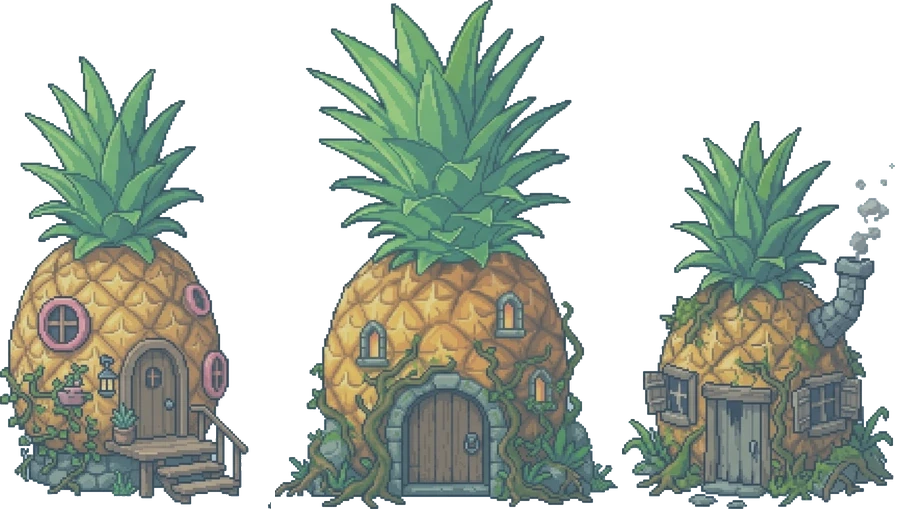
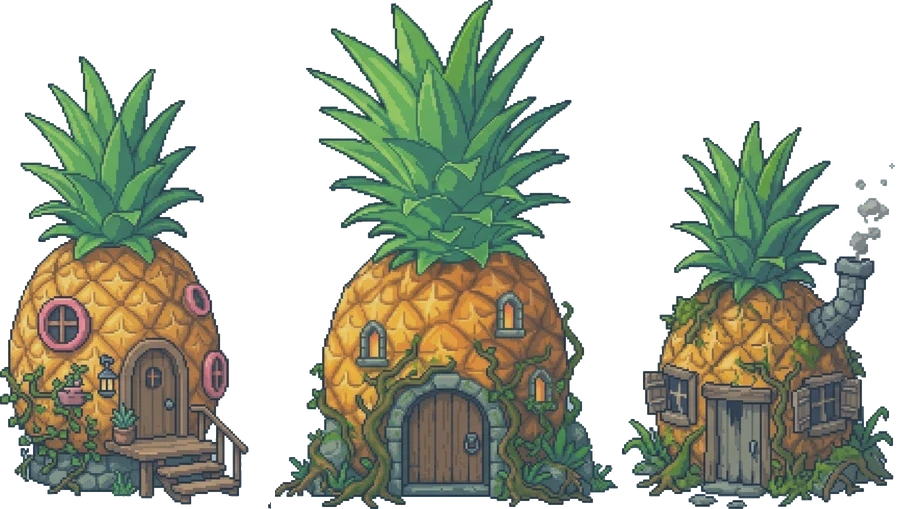
Gioca aspetta le immagini e casette meno velate
Il pulsante Gioca resta su "Caricamento…" finché tutte le immagini sono
arrivate: con la rete lenta la partita partiva senza caselle, nemici e
Matteo. Le casette hanno il velo al 20%, meno del fondale.

diff --git a/game.js b/game.js
@@ -2,6 +2,8 @@
 addEventListener("error",e=>{const t=document.getElementById("erroreT");if(t&&e.message&&document.getElementById("gioco")){t.hidden=false;t.textContent="Si è verificato un errore: "+e.message+". Ricarica la pagina.";}});
 (function(){
 const $=id=>document.getElementById(id);
+/* ogni immagine del gioco finisce in IMMAGINI: Gioca aspetta che siano tutte caricate, se no con la rete lenta all'inizio mancano caselle, nemici e Matteo */
+const IMMAGINI=[],Image=function(){const i=new window.Image();IMMAGINI.push(i);return i;};
 const clamp=(v,a,b)=>v<a?a:v>b?b:v, lerp=(a,b,t)=>a+(b-a)*t, rnd=(a,b)=>a+Math.random()*(b-a);
 const riduci=matchMedia('(prefers-reduced-motion: reduce)').matches;
 
@@ -560,7 +562,7 @@ function strato(c,f,par,y,h,dritto){const b=2,sw=f.width-2*b,w=h*sw/f.height,pe=
  for(let i=0,x=-o;x<V.W;i++,x+=w){x=Math.floor(x);if(i%2&&!dritto){c.save();c.translate(x+w+3,y);c.scale(-1,1);c.drawImage(f,b,0,sw,f.height,0,0,w+3,h);c.restore();}else c.drawImage(f,b,0,sw,f.height,x,y,w+3,h);}}
 /* la sala del trono di Ananassone, disegnata dall'utente: ferma e grande quanto lo schermo, appoggiata in basso */
 const SALA=new Image();SALA.src='assets/sala_ananas.webp';
-/* le tre casette dell'utente (paesaggio/casette_originale.jpg, scontornate, a metà grandezza e velate come il fondale): solo da guardare, attaccate al terreno ma dietro al gioco.
+/* le tre casette dell'utente (paesaggio/casette_originale.jpg, scontornate, a metà grandezza e velate appena, molto meno del fondale): solo da guardare, attaccate al terreno ma dietro al gioco.
    CASE_R rettangoli nel foglio, CASE_B riga della base (sotto ci sono solo radici e ombra), alte 8 caselle quella in mezzo */
 const CASETTE=new Image();CASETTE.src='assets/casette.webp';const CASE_R=[[0,56,271,453],[275,0,343,509],[622,121,273,388]],CASE_B=[435,498,375],CASA_K=8/509;
 const CASTELLO=new Image();CASTELLO.src='assets/castello.webp'; /* scontornato da paesaggio/castello_originale.png; la porta è a 252 px dal bordo sinistro e la sua soglia a 538 px dall'alto: sotto ci sono solo le radici */
@@ -917,6 +919,8 @@ function disegnaAmici(){const a=$('listaAmici');a.textContent='';
  $('saldo').textContent=S.gettoni;$('togliAmico').hidden=S.sel===0;$('togliFoto').hidden=!f.foto;$('togliFoto').textContent='Togli la foto di '+f.nome;$('fotoTesto').textContent=(f.foto?'Cambia la foto di ':'Metti la foto di ')+f.nome;
 }
 async function bloccaOrizzontale(){try{if(!document.fullscreenElement&&document.documentElement.requestFullscreen)await document.documentElement.requestFullscreen();await screen.orientation.lock('landscape');}catch(e){}}
+/* finché le immagini non sono arrivate Gioca è spento e dice Caricamento…; dopo 20 s si accende comunque */
+(function attendi(t0){const b=$('bGioca'),n=IMMAGINI.filter(i=>!i.complete).length;if(n&&performance.now()-t0<20000){b.disabled=true;b.classList.add('carica');b.textContent='Caricamento…';setTimeout(()=>attendi(t0),150);}else{b.disabled=false;b.classList.remove('carica');b.textContent='Gioca';}})(performance.now());
 $('bGioca').onclick=()=>{audioOn();chiediSensori();bloccaOrizzontale();if((S.guidaVista|0)>=3)iniziaRun();else apriGuida(iniziaRun);};
 $('bGuida').onclick=()=>{audioOn();apriGuida(null);};
 $('bAmici').onclick=()=>{audioOn();disegnaAmici();mostra('sAmici');};

diff --git a/style.css b/style.css
@@ -34,6 +34,7 @@ body{font-family:var(--testo);font-size:16px}
 @keyframes logoOndeggia{50%{transform:translateY(-1.1vmin) rotate(-.6deg)}}
 .mPulsanti{display:grid;grid-template-columns:minmax(0,1fr) minmax(0,1.25fr) minmax(0,1fr);align-items:center;gap:clamp(12px,2.4vmax,24px);width:min(100%,780px)}
 .mBtn{--c1:var(--azzurro);--c2:var(--azzurro2);min-height:clamp(46px,14vmin,60px);padding:6px 12px;font:400 clamp(15px,2.3vmax,21px)/1.05 var(--display);color:var(--notte);text-wrap:balance;background:linear-gradient(var(--c1) 50%,var(--c2) 50%);border:3px solid var(--notte);border-radius:16px;box-shadow:0 5px 0 var(--notte),0 0 0 6px #fff,0 11px 0 0 #fff;cursor:pointer;touch-action:manipulation}
+.mBtn.carica{opacity:.75;font-size:clamp(17px,2.6vmax,24px)}
 .mBtn:active{transform:translateY(4px);box-shadow:0 1px 0 var(--notte),0 0 0 6px #fff,0 7px 0 0 #fff}
 .mGioca{--c1:var(--scintilla);--c2:var(--scintilla2);min-height:clamp(58px,19vmin,78px);font-size:clamp(25px,4vmax,36px);line-height:1;letter-spacing:.02em}
 .mPiede{display:flex;align-items:center;justify-content:center;gap:10px;min-height:0;margin-top:1.6vmin;max-width:100%;font-size:13px;line-height:1.2;font-weight:700;color:#fff}

diff --git a/index.html b/index.html
@@ -20,7 +20,7 @@
 <link rel="preconnect" href="https://fonts.googleapis.com">
 <link rel="preconnect" href="https://fonts.gstatic.com" crossorigin>
 <link rel="stylesheet" href="https://fonts.googleapis.com/css2?family=Bowlby+One&family=Baloo+2:wght@500;700;800&display=swap">
-<link rel="stylesheet" href="style.css?v=90">
+<link rel="stylesheet" href="style.css?v=93">
 
 <div id="schermo">
 <canvas id="d2" aria-label="Gioco Cicciobomba"></canvas>
@@ -102,6 +102,6 @@
 <div id="erroreT" hidden>Il gioco non è riuscito a partire. Controlla la connessione e ricarica la pagina.</div>
 
 </div>
-<script src="game.js?v=90"></script>
+<script src="game.js?v=93"></script>
 
 </body></html>

diff --git a/CLAUDE.md b/CLAUDE.md
@@ -7,12 +7,13 @@ Gioco per browser pensato per il telefono in orizzontale, pubblicato con GitHub 
 - `style.css`: lo stile, con i colori come variabili su `:root`.
 - `game.js`: tutta la logica, in un unico script classico chiuso in una funzione e diviso in sezioni `/* ---------- NOME ---------- */`: orientamento, salvataggio, mondi e tappe, kit grafico e sonoro, skin, palla dipinta, audio, stato, comandi, cuori, corsa 2D, boss 2D, la bomba, guida, flusso, menu, ciclo.
 - `assets/logo.webp`: il titolo dell'utente (ritagliato da `cicciobomba.png`, senza le due punte bianche ai lati), messo da `game.js` perché `build.py` riscrive solo i percorsi di `game.js`. Il menu (`#sMenu`) ha il logo, sotto Gioca, senza scritte (l'utente ha tolto "con Matteo"), tra Amici e skin e Come si gioca, sotto ancora record e nota. Matteo nel menu non c'è più: dietro restano il fondale e il terreno che scorre.
-- `assets/`: `matteo_fermo.webp`, `matteo_cammina.webp`, `matteo_salto.webp`, `matteo_palla.webp` e `matteo_stanco.webp` (il Matteo nuovo dell'utente, con la camicia blu: mappe nei commenti sopra `fogSpr`. In partita li usa solo il Matteo normale, senza colore, skin o foto; gli amici, la guida e le anteprime di Amici e skin usano ancora `personaggio*.webp`. `matteo_palla.webp` viene da `rotolo.png`, scontornata dall'utente: si tiene il suo bordo così com'è. La palla è un solo disegno, il fotogramma 9, quello senza la testa scelto dall'utente, che ruota di continuo (`gelSpr`), un giro ogni 3,8 caselle (`SPR_GIRO`), come la palla vecchia: cambiando solo disegno, con 5 fotogrammi, all'utente sembrava non rotolare davvero. La gelatina è stata ridotta di un terzo: prima era troppo molle. Cresce con la carica. Fermandosi resta nella posa per `SPR_ATTESA` secondi, poi gira fino a dritto e si apre; se riparte continua da lì. `matteo_grasso.webp`, 9 fotogrammi da 170x140: 0-3 mangia una pizza (`p.mangia`), 5 e 4 la pancia cresce da fermo con la carica, 6 gonfio a carica piena, al posto della bomba (`p.gonfioT` è il passaggio; da fermo respira, in moto dondola e pulsa di un rossore leggero; in palla ruota tutto il corpo, con braccia e gambe, attorno al cerchio della pancia che tocca terra, come vuole l'utente; fermandosi resta girato, senza raddrizzarsi né cambiare disegno, finché non riparte, `p.gFermo`. Il raggio d'urto diventa quello della pancia, `R_GRASSO`, se c'è posto, `aggRaggio`, e dopo l'esplosione torna `R_NORMALE`), 7-8 si sgonfia atterrando dopo l'esplosione (`p.sgonfiaT`): in volo usa le pose del salto (`p.boomAria`). Se prende una pizza in palla mastica appena si ferma. Gli amici tengono la bomba, `bomba.webp`, e così l'icona della barra e la guida. `matteo_stanco.webp` viene da un'immagine piccola: i pixel chiari del bordo sono stati tolti e il bordo ridipinto di scuro. Alto 3,8 raggi (`SPR_K`), piedi abbassati di `SPR_PIEDI`. `matteo_cammina.webp` ha solo i fotogrammi scelti, nell'ordine in cui braccia e gambe si alternano: 0-5 corre, 6-9 cammina, 10-20 si gira per noia. La camminata alterna le gambe: destra avanti (2ª riga, 6°, senza la macchia grigia), passaggio (4ª riga, 4°), sinistra avanti (4ª riga, 6°), passaggio (2ª riga, 2°). Nel foglio la gamba vicina è la destra: è più chiara e ha la tasca; le altre righe hanno quasi sempre la sinistra avanti. L'utente non vuole dissolvenze tra i fotogrammi, perché sembrano sfumati, né un contorno nero aggiunto), `fondi/ananas_nuovo.webp` (fondale attuale del mondo 1, ripetuto a specchio da `strato`. Velato del 32% verso l'azzurro `#aee9fb` e con i colori al 82%: a piena forza competeva con pizze e nemici, a 48% era slavato), `anteprima.jpg` e `icona.png` (immagine e icona per il link condiviso, con i tag in testa a `index.html` e l'indirizzo intero: se cambi l'immagine alza il suo `?v=`), `kit.webp` (atlante dei blocchi Kenney, coordinate in `KMAP`), `personaggio.webp`, `personaggio2.webp` e `personaggio3.webp` (fogli delle animazioni di Matteo; il terzo è Matteo stanco, con le stesse celle da 200 del secondo), `fumo.webp`, `polvere.webp`, `esplosione.webp`, `pizza.webp`, `kit2.webp` (altri pezzi del kit), `nemico_pera.webp` (la pera triste dell'utente, nemico base del mondo 1 al posto dell'ananas arrabbiato, dal foglio già scontornato dall'utente, `paesaggio/nemico_pera_originale.png`, con il suo bordo, a metà grandezza: 8 fotogrammi da 70x94 che guardano a destra (l'ananas di prima guardava a sinistra: girata come lui camminava all'indietro), 0-3 cammina, 4 colpita, 5 cade dall'alto (le pere del pugno del boss), 6 atterrata e 7 si rialza (`n.alza`, ferma per 0,6 s), `disegnaPera`; uccisa fa gli occhi strizzati e sparisce in 0,7 s (`n.morto`). La pera vista da dietro del foglio non si usa. Del foglio "Pineapple Tiles" CC0 dell'utente degli altri pezzi di quel foglio l'utente non vuole niente, né per il terreno né per le grotte; il terreno ananas di `paesaggio.webp` è un'altra serie, che invece gli va bene), `paesaggio.webp` (terreno del mondo 1: buccia e polpa d'ananas disegnate dall'utente, caselle da 68 nello stesso ordine di `PIX`, poi la rampa (`sprite-20.png`), la terra sotto la rampa (`paesaggio.png`) e i lati del piano: ai piedi di un muro (`sprite-28.png`), gradino in giù (`sprite-29.png`) e bordo sul vuoto (`sprite-30.png`), poi il muro accanto al bordo sul vuoto (`sprite-32.png`) sotto una colonna (`sprite-33.png`) e il piano ai lati della colonna (`sprite-31.png`); i pezzi singoli stanno in `paesaggio/`), `erbananas.webp` (ciuffo d'ananas dell'utente, al posto del cespuglio nei decori del mondo 1, disegnato da `ciuffo()` in grandezza vera, alla scala delle caselle da 68, perché il bordo scuro sia spesso come quello del pavimento. Largo più di 3 caselle, deve stare tutto sul piano: se sporge sul vuoto rientra un po' a sinistra (`d.dx`), e se non ci sta diventa erba; l'originale è `paesaggio/erbananas.png`), `bomba.webp` (Matteo carico al massimo: 37 fotogrammi da 160 in righe da 10, mappa in `disegnaBomba`), `boss_ananassone.webp` (Ananassone con la corazza, disegnato dall'utente e ritagliato da `paesaggio/boss_ananassone_originale.webp`: 21 fotogrammi da 231x166 in righe da 8, allineati per il corpo e i piedi; 0 fermo (le altre tre pose da fermo non si usano: il respiro lo simula il codice, scalando dai piedi), 4-11 corre, 9 a testa bassa per la mira, 12-13 pugno, 14-16 stordito, 17-20 cade sconfitto, mappa in `disegnaAnanas` e `disegnaBoss`; in `BOSPR` resta solo il disegno di riserva), `casette.webp` (le tre casette-ananas dell'utente, scontornate da `paesaggio/casette_originale.jpg`, a metà grandezza e velate come il fondale (colori all'80%, velo del 30% verso `#aee9fb`), rettangoli in `CASE_R`: solo da guardare. Attaccate al terreno, così scorrono col piano di gioco, ma disegnate dietro a tutto; alte 8 caselle quella in mezzo (a 5 erano insulse). Stanno solo sul pavimento principale, su un tratto pieno per tutta la larghezza e a cielo aperto (libero per 10 caselle sopra: con 5 una finiva in un tratto chiuso tra due muri), a 20 caselle una dall'altra, e poggiano sulla riga della base (`CASE_B`), non sul fondo dell'immagine dove ci sono solo radici: appoggiate col fondo sembravano sospese. Come strato a parte, che scorre più piano, all'utente non piacevano), `castello.webp` (il castello-ananas dell'utente, scontornato da `paesaggio/castello_originale.png`: sta alla fine della corsa, alto 9,5 caselle anche se in cima esce dall'inquadratura (l'utente lo vuole grande), con la porta a `M.fine`; quando Matteo si avvicina i due battenti girano verso dentro e dietro c'è il buio (`M.porta`, da 0 a 1); entrando dalla porta si va dal boss), `sala_ananas.webp` (la sala del trono dell'utente, fondale della stanza di Ananassone: ferma, grande quanto lo schermo e appoggiata in basso, in `fondale`. Colori al 90% e velata del 18% verso il crema `#fff6e2`, perché boss e Matteo stacchino (al 38% l'utente la trovava troppo trasparente): l'originale è `paesaggio/sala_ananas_originale.webp`), `fondi/*.webp` (nel mondo 1, con `retro:'cielo'`, dietro c'è solo il cielo: azzurro sfumato e in alto la striscia `cielo_nuvole.webp`, ritagliata dal disegno dell'utente; l'utente ha provato a metterci sopra un dipinto della valle col fiume e non lo vuole: dietro resta solo il cielo; davanti `ananas_ponti.webp`, il disegno dell'utente con gli ananas giganti e i ponti (1024x572, già scontornato da lui), che scorre piano (0,1). L'utente l'ha ridisegnato perché i bordi destro e sinistro si attacchino: `stratoPonti` mette le copie una dopo l'altra, sovrapposte di un pixel, senza sfumature né specchio. `strato()` ripete le immagini specchiate una volta sì e una no, senza le due colonne di bordo e sovrapposte di 3 px: prima tra una copia e l'altra si vedeva una riga chiara. Restano nel codice, non usati, il fondale arancio `ananas_lontano.webp` (`retro:'ananas_lontano'`) e gli oggetti di `oggetti.webp` (`oggetti:true`, `filaOggetti`)), messi in due file ripetute e sovrapposte da `filaOggetti`, con `oggetti:true` nel mondo. La felce grande è attaccata all'albero e resta con lui; le liane e la foglia sola non si usano), `suoni/*.mp3`.
+- `assets/`: `matteo_fermo.webp`, `matteo_cammina.webp`, `matteo_salto.webp`, `matteo_palla.webp` e `matteo_stanco.webp` (il Matteo nuovo dell'utente, con la camicia blu: mappe nei commenti sopra `fogSpr`. In partita li usa solo il Matteo normale, senza colore, skin o foto; gli amici, la guida e le anteprime di Amici e skin usano ancora `personaggio*.webp`. `matteo_palla.webp` viene da `rotolo.png`, scontornata dall'utente: si tiene il suo bordo così com'è. La palla è un solo disegno, il fotogramma 9, quello senza la testa scelto dall'utente, che ruota di continuo (`gelSpr`), un giro ogni 3,8 caselle (`SPR_GIRO`), come la palla vecchia: cambiando solo disegno, con 5 fotogrammi, all'utente sembrava non rotolare davvero. La gelatina è stata ridotta di un terzo: prima era troppo molle. Cresce con la carica. Fermandosi resta nella posa per `SPR_ATTESA` secondi, poi gira fino a dritto e si apre; se riparte continua da lì. `matteo_grasso.webp`, 9 fotogrammi da 170x140: 0-3 mangia una pizza (`p.mangia`), 5 e 4 la pancia cresce da fermo con la carica, 6 gonfio a carica piena, al posto della bomba (`p.gonfioT` è il passaggio; da fermo respira, in moto dondola e pulsa di un rossore leggero; in palla ruota tutto il corpo, con braccia e gambe, attorno al cerchio della pancia che tocca terra, come vuole l'utente; fermandosi resta girato, senza raddrizzarsi né cambiare disegno, finché non riparte, `p.gFermo`. Il raggio d'urto diventa quello della pancia, `R_GRASSO`, se c'è posto, `aggRaggio`, e dopo l'esplosione torna `R_NORMALE`), 7-8 si sgonfia atterrando dopo l'esplosione (`p.sgonfiaT`): in volo usa le pose del salto (`p.boomAria`). Se prende una pizza in palla mastica appena si ferma. Gli amici tengono la bomba, `bomba.webp`, e così l'icona della barra e la guida. `matteo_stanco.webp` viene da un'immagine piccola: i pixel chiari del bordo sono stati tolti e il bordo ridipinto di scuro. Alto 3,8 raggi (`SPR_K`), piedi abbassati di `SPR_PIEDI`. `matteo_cammina.webp` ha solo i fotogrammi scelti, nell'ordine in cui braccia e gambe si alternano: 0-5 corre, 6-9 cammina, 10-20 si gira per noia. La camminata alterna le gambe: destra avanti (2ª riga, 6°, senza la macchia grigia), passaggio (4ª riga, 4°), sinistra avanti (4ª riga, 6°), passaggio (2ª riga, 2°). Nel foglio la gamba vicina è la destra: è più chiara e ha la tasca; le altre righe hanno quasi sempre la sinistra avanti. L'utente non vuole dissolvenze tra i fotogrammi, perché sembrano sfumati, né un contorno nero aggiunto), `fondi/ananas_nuovo.webp` (fondale attuale del mondo 1, ripetuto a specchio da `strato`. Velato del 32% verso l'azzurro `#aee9fb` e con i colori al 82%: a piena forza competeva con pizze e nemici, a 48% era slavato), `anteprima.jpg` e `icona.png` (immagine e icona per il link condiviso, con i tag in testa a `index.html` e l'indirizzo intero: se cambi l'immagine alza il suo `?v=`), `kit.webp` (atlante dei blocchi Kenney, coordinate in `KMAP`), `personaggio.webp`, `personaggio2.webp` e `personaggio3.webp` (fogli delle animazioni di Matteo; il terzo è Matteo stanco, con le stesse celle da 200 del secondo), `fumo.webp`, `polvere.webp`, `esplosione.webp`, `pizza.webp`, `kit2.webp` (altri pezzi del kit), `nemico_pera.webp` (la pera triste dell'utente, nemico base del mondo 1 al posto dell'ananas arrabbiato, dal foglio già scontornato dall'utente, `paesaggio/nemico_pera_originale.png`, con il suo bordo, a metà grandezza: 8 fotogrammi da 70x94 che guardano a destra (l'ananas di prima guardava a sinistra: girata come lui camminava all'indietro), 0-3 cammina, 4 colpita, 5 cade dall'alto (le pere del pugno del boss), 6 atterrata e 7 si rialza (`n.alza`, ferma per 0,6 s), `disegnaPera`; uccisa fa gli occhi strizzati e sparisce in 0,7 s (`n.morto`). La pera vista da dietro del foglio non si usa. Del foglio "Pineapple Tiles" CC0 dell'utente degli altri pezzi di quel foglio l'utente non vuole niente, né per il terreno né per le grotte; il terreno ananas di `paesaggio.webp` è un'altra serie, che invece gli va bene), `paesaggio.webp` (terreno del mondo 1: buccia e polpa d'ananas disegnate dall'utente, caselle da 68 nello stesso ordine di `PIX`, poi la rampa (`sprite-20.png`), la terra sotto la rampa (`paesaggio.png`) e i lati del piano: ai piedi di un muro (`sprite-28.png`), gradino in giù (`sprite-29.png`) e bordo sul vuoto (`sprite-30.png`), poi il muro accanto al bordo sul vuoto (`sprite-32.png`) sotto una colonna (`sprite-33.png`) e il piano ai lati della colonna (`sprite-31.png`); i pezzi singoli stanno in `paesaggio/`), `erbananas.webp` (ciuffo d'ananas dell'utente, al posto del cespuglio nei decori del mondo 1, disegnato da `ciuffo()` in grandezza vera, alla scala delle caselle da 68, perché il bordo scuro sia spesso come quello del pavimento. Largo più di 3 caselle, deve stare tutto sul piano: se sporge sul vuoto rientra un po' a sinistra (`d.dx`), e se non ci sta diventa erba; l'originale è `paesaggio/erbananas.png`), `bomba.webp` (Matteo carico al massimo: 37 fotogrammi da 160 in righe da 10, mappa in `disegnaBomba`), `boss_ananassone.webp` (Ananassone con la corazza, disegnato dall'utente e ritagliato da `paesaggio/boss_ananassone_originale.webp`: 21 fotogrammi da 231x166 in righe da 8, allineati per il corpo e i piedi; 0 fermo (le altre tre pose da fermo non si usano: il respiro lo simula il codice, scalando dai piedi), 4-11 corre, 9 a testa bassa per la mira, 12-13 pugno, 14-16 stordito, 17-20 cade sconfitto, mappa in `disegnaAnanas` e `disegnaBoss`; in `BOSPR` resta solo il disegno di riserva), `casette.webp` (le tre casette-ananas dell'utente, scontornate da `paesaggio/casette_originale.jpg`, a metà grandezza e velate appena (colori al 92%, velo del 20% verso `#aee9fb`; provato anche il 12%): con la stessa foschia del fondale, 30%, si impastavano con gli ananas dietro, rettangoli in `CASE_R`: solo da guardare. Attaccate al terreno, così scorrono col piano di gioco, ma disegnate dietro a tutto; alte 8 caselle quella in mezzo (a 5 erano insulse). Stanno solo sul pavimento principale, su un tratto pieno per tutta la larghezza e a cielo aperto (libero per 10 caselle sopra: con 5 una finiva in un tratto chiuso tra due muri), a 20 caselle una dall'altra, e poggiano sulla riga della base (`CASE_B`), non sul fondo dell'immagine dove ci sono solo radici: appoggiate col fondo sembravano sospese. Come strato a parte, che scorre più piano, all'utente non piacevano), `castello.webp` (il castello-ananas dell'utente, scontornato da `paesaggio/castello_originale.png`: sta alla fine della corsa, alto 9,5 caselle anche se in cima esce dall'inquadratura (l'utente lo vuole grande), con la porta a `M.fine`; quando Matteo si avvicina i due battenti girano verso dentro e dietro c'è il buio (`M.porta`, da 0 a 1); entrando dalla porta si va dal boss), `sala_ananas.webp` (la sala del trono dell'utente, fondale della stanza di Ananassone: ferma, grande quanto lo schermo e appoggiata in basso, in `fondale`. Colori al 90% e velata del 18% verso il crema `#fff6e2`, perché boss e Matteo stacchino (al 38% l'utente la trovava troppo trasparente): l'originale è `paesaggio/sala_ananas_originale.webp`), `fondi/*.webp` (nel mondo 1, con `retro:'cielo'`, dietro c'è solo il cielo: azzurro sfumato e in alto la striscia `cielo_nuvole.webp`, ritagliata dal disegno dell'utente; l'utente ha provato a metterci sopra un dipinto della valle col fiume e non lo vuole: dietro resta solo il cielo; davanti `ananas_ponti.webp`, il disegno dell'utente con gli ananas giganti e i ponti (1024x572, già scontornato da lui), che scorre piano (0,1). L'utente l'ha ridisegnato perché i bordi destro e sinistro si attacchino: `stratoPonti` mette le copie una dopo l'altra, sovrapposte di un pixel, senza sfumature né specchio. `strato()` ripete le immagini specchiate una volta sì e una no, senza le due colonne di bordo e sovrapposte di 3 px: prima tra una copia e l'altra si vedeva una riga chiara. Restano nel codice, non usati, il fondale arancio `ananas_lontano.webp` (`retro:'ananas_lontano'`) e gli oggetti di `oggetti.webp` (`oggetti:true`, `filaOggetti`)), messi in due file ripetute e sovrapposte da `filaOggetti`, con `oggetti:true` nel mondo. La felce grande è attaccata all'albero e resta con lui; le liane e la foglia sola non si usano), `suoni/*.mp3`.
 - `tools/build.py`: ricompone tutto in `dist/cicciobomba.html`, un file unico con le risorse dentro, che si apre con un doppio clic. `dist/` è generata ed esclusa da git: non modificarla a mano.
 
 ## Regole
 - Testi, nomi di variabili e commenti in italiano. Il codice è compatto (righe lunghe, nomi brevi): mantieni lo stesso stile.
 - Grafica e suoni solo CC0 (Kenney: New Platformer Pack, Pixel Platformer, Pixel Platformer Farm Expansion), disegnati nel codice o fatti dall'utente (il Matteo nuovo e il fondale del mondo 1, generati da lui con Gemini). Niente sprite di personaggi di altri giochi: quelli di Wario servivano solo come riferimento per le pose e non vanno pubblicati (`sprite/` è esclusa da git). Il terreno del mondo 1 è il paesaggio ananas dell'utente: `sp()` disegna i nomi `terrain_sand_*` con le caselle di `paesaggio.webp` (indici di `PIX`, funzione `paes`), senza smussare i pixel. La rampa è una sola, che scende verso destra: quella che sale è la stessa capovolta. Sotto una rampa, se a lato c'è un'altra rampa o il piano, va la casella `PAES_SOTTO`, che porta nell'angolo la buccia della rampa dopo: così la buccia scende continua. Dove il piano con terra sotto finisce di lato, `latoPiano` sceglie in `PAES_BORDO`: `m` ai piedi di un muro di terra più alto (le rampe non contano come muro), `g` gradino in giù, `v` vuoto: il bordo sul vuoto solo se dall'altra parte c'è un muro più alto (lì l'uncino si attacca al muro), sui piani larghi il bordo sul vuoto usa lo stesso pezzo del gradino (`sprite-29.png`). Nella casella del muro accanto a quel bordo va `PAES_UNIONE`, che unisce le due linee scure; sotto una colonna, con il piano che arriva dai due lati, va `PAES_COLONNA` (tutte e due con `pianoAlMuro`), e il piano ai lati della colonna usa `PAES_LATO_COLONNA`, senza l'uncino del pezzo ai piedi del muro. Sono disegnati per il lato sinistro e a destra si capovolgono; il bordo sul vuoto al contrario, perché la buccia stia dal lato del vuoto. Le piattaforme sospese tengono i loro pezzi. Un nuovo asset va in `assets/` e si richiama con un percorso scritto per intero tra apici (`'assets/...'`), altrimenti `build.py` non lo mette nel file unico.
+- Ogni `new Image()` dentro `game.js` passa da una funzione che la mette in `IMMAGINI`: finché non sono tutte caricate Gioca è spento e dice "Caricamento…" (al massimo 20 s). Senza, con la rete lenta del telefono la partita partiva senza caselle, nemici e Matteo, che comparivano dopo.
 - Il salvataggio sta nel `localStorage` con chiave `rotolamici-v1`. Se cambi la struttura di `S`, gestisci i salvataggi vecchi.
 - `VITE_INFINITE` in `game.js` è un'impostazione per le prove: con `true` non si perdono cuori. Va lasciata `false`.
 - Quello che va su `main` finisce subito online su GitHub Pages: si pubblica solo dopo averlo provato. In `index.html` gli indirizzi di `game.js` e `style.css` hanno `?v=N`: a ogni pubblicazione che cambia uno dei due, alza N (è lo stesso numero del link `?v=N` da dare all'utente), altrimenti il telefono continua a usare il `game.js` vecchio che tiene in memoria.
